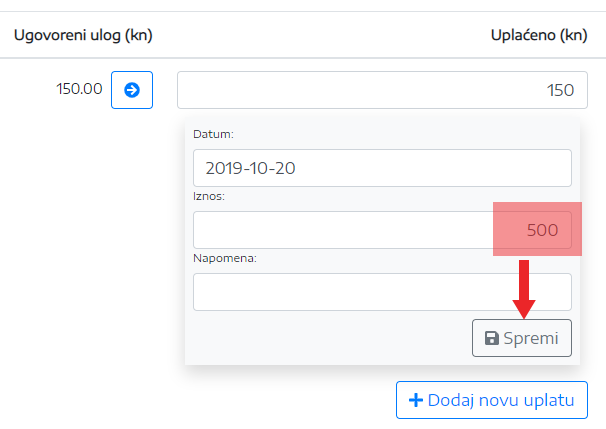
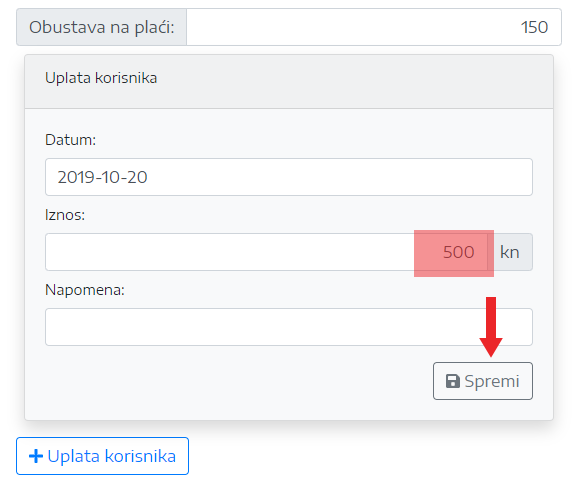
Kup tutorial.

diff --git a/kup/uputa.html b/kup/uputa.html
@@ -80,6 +80,9 @@
                         <li class="nav-item">
                             <a class="nav-link" href="#section3">3. Uplata uloga</a>
                         </li>
+                        <li class="nav-item">
+                            <a class="nav-link" href="#section4">3. Ostali prihodi i rashodi</a>
+                        </li>
                     </ul>
                 </nav>
                 <div class="col-sm-10 col-8">
@@ -157,10 +160,20 @@
                         </p>
                         <img class="img-responsive img-thumbnail img" src="img/help/uplatauloga1.png" />
                         <p>
-                            Ukoliko korisnik sam želi izvršiti uplatu u tekućem mjesecu, treba kliknuti na dugme <strong>Dodaj novu uplatu</strong>
-                            nakon čega se otvaraju nova poolja za unos. Upisati datum, iznos i kliknuti na dugme <strong>Spremi</strong>.
+                            Ukoliko korisnik sam želi izvršiti uplatu u tekućem mjesecu, treba kliknuti na dugme <strong>Uplata korisnika</strong>
+                            nakon čega se otvaraju nova poolja za unos. Upisati datum i iznos i kliknuti na dugme <strong>Spremi</strong>.
                         </p>
                         <img class="img-responsive img-thumbnail img" src="img/help/uplatauloga2.png" />
+                    </div>
+                    <div id="section4" class="section">
+                        <h3>3. Ostali prihodi i rashodi</h3>
+                        <p>
+                            Pod ostale prihode i rashode spadaju <strong>troškovi održavanja računa, kamate po štednji i ostali troškovi</strong>.<br />
+                            Iz desnog izbornika odabrati vrstu troška, selektirati godinu i kliknuti na <strong>Filter</strong>.<br />
+                            Kliknuti na dugme <strong>Novi Unos</strong>, odabrati datum, upisati iznos i opis i kliknuti na dugme <strong>Spremi</strong>.
+                        </p>
+                        <img class="img-responsive img-thumbnail img" src="img/help/ostaliprihodiirashodi1.png" />
+                        <img class="img-responsive img-thumbnail img" src="img/help/ostaliprihodiirashodi2.png" />
                     </div>
                 </div>
             </div>
